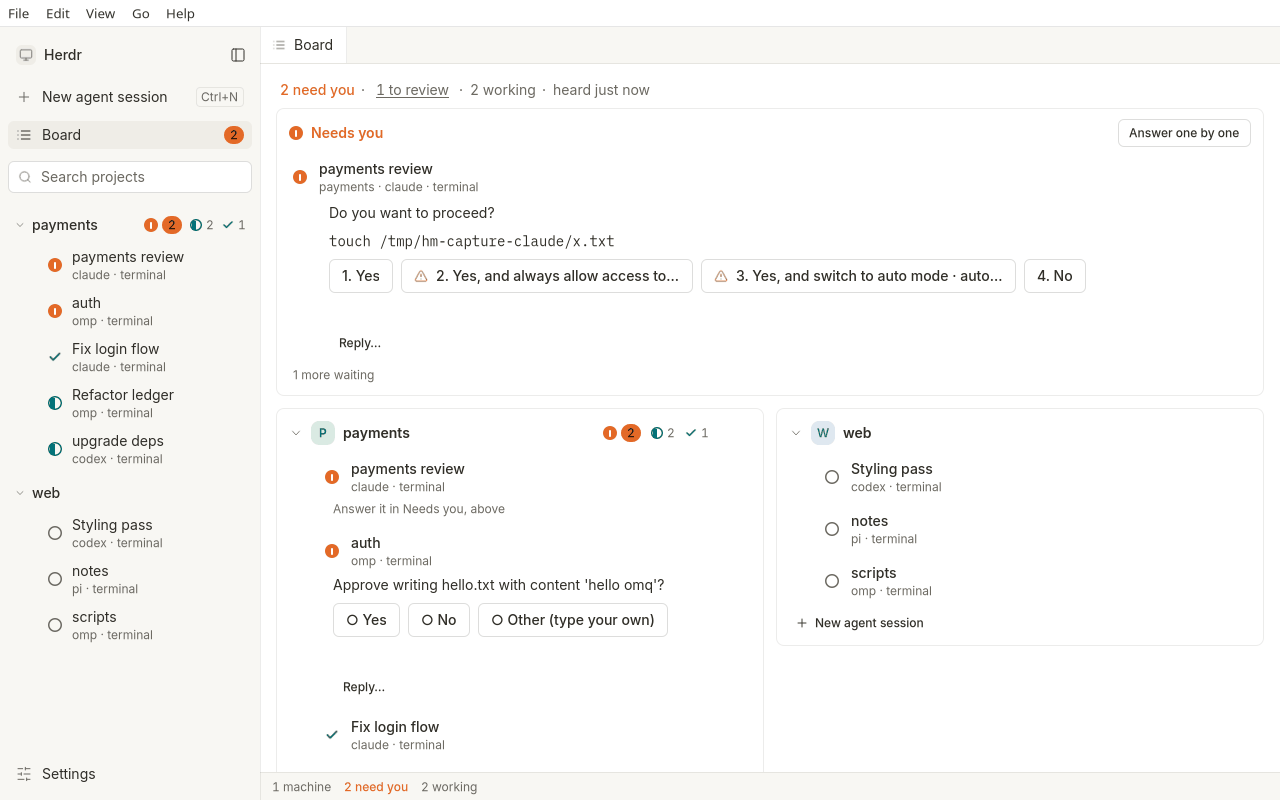
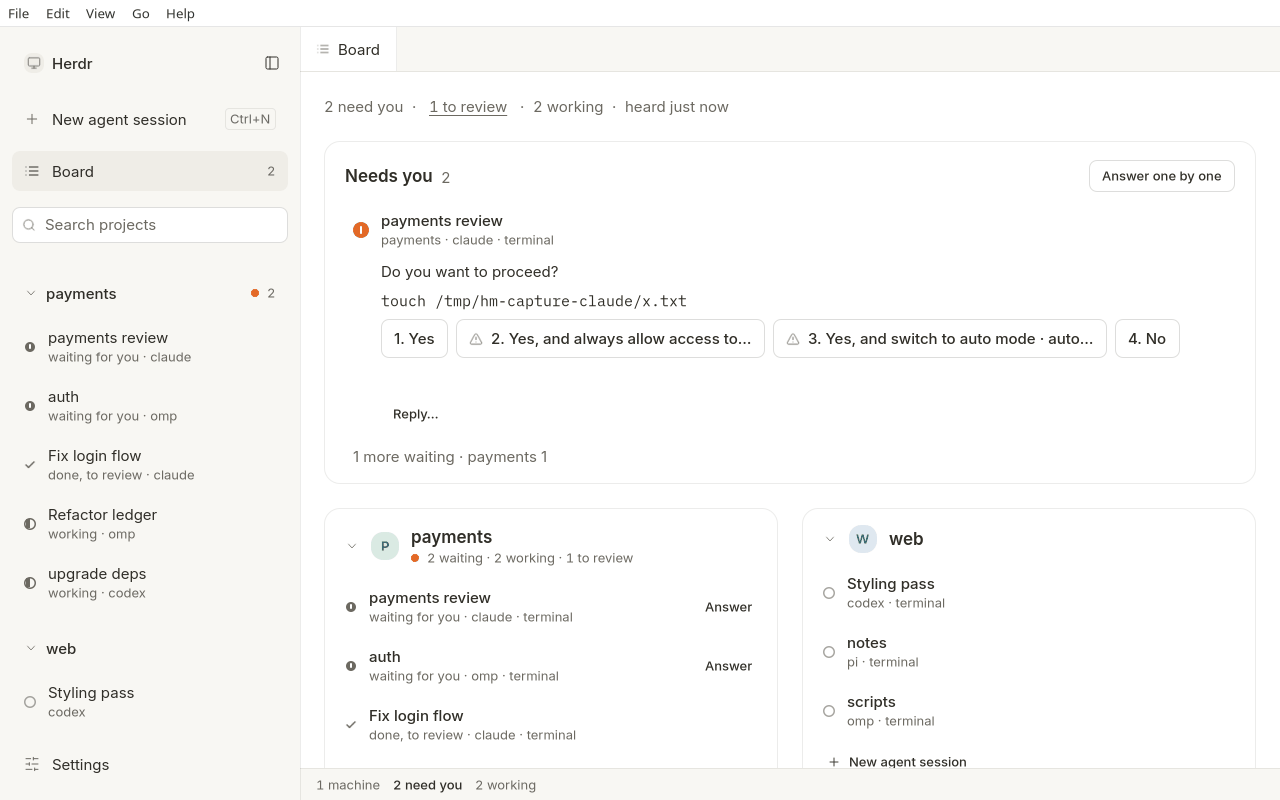
docs: refresh the README screenshots (calm home, highlighted code)

diff --git a/README.md b/README.md
@@ -17,7 +17,7 @@ Feature-by-feature status against the phone app is in [docs/PARITY.md](docs/PARI
 
 ## A look
 
-<p><img src="docs/screenshots/home.png" alt="Home: projects, a Needs you inbox" width="440"> <img src="docs/screenshots/chat.png" alt="Chat with tool rows, a diff and a subagent" width="440"></p>
+<p><img src="docs/screenshots/home.png" alt="Home: projects, a Needs you inbox" width="440"> <img src="docs/screenshots/chat.png" alt="Chat with highlighted code, light" width="440"> <img src="docs/screenshots/chat-dark.png" alt="Chat with highlighted code, dark" width="440"></p>
 
 Illustrations from scripted data, not a gallery: they date. `make shots` takes current ones into `.scratch/shots/` (not committed).
 
